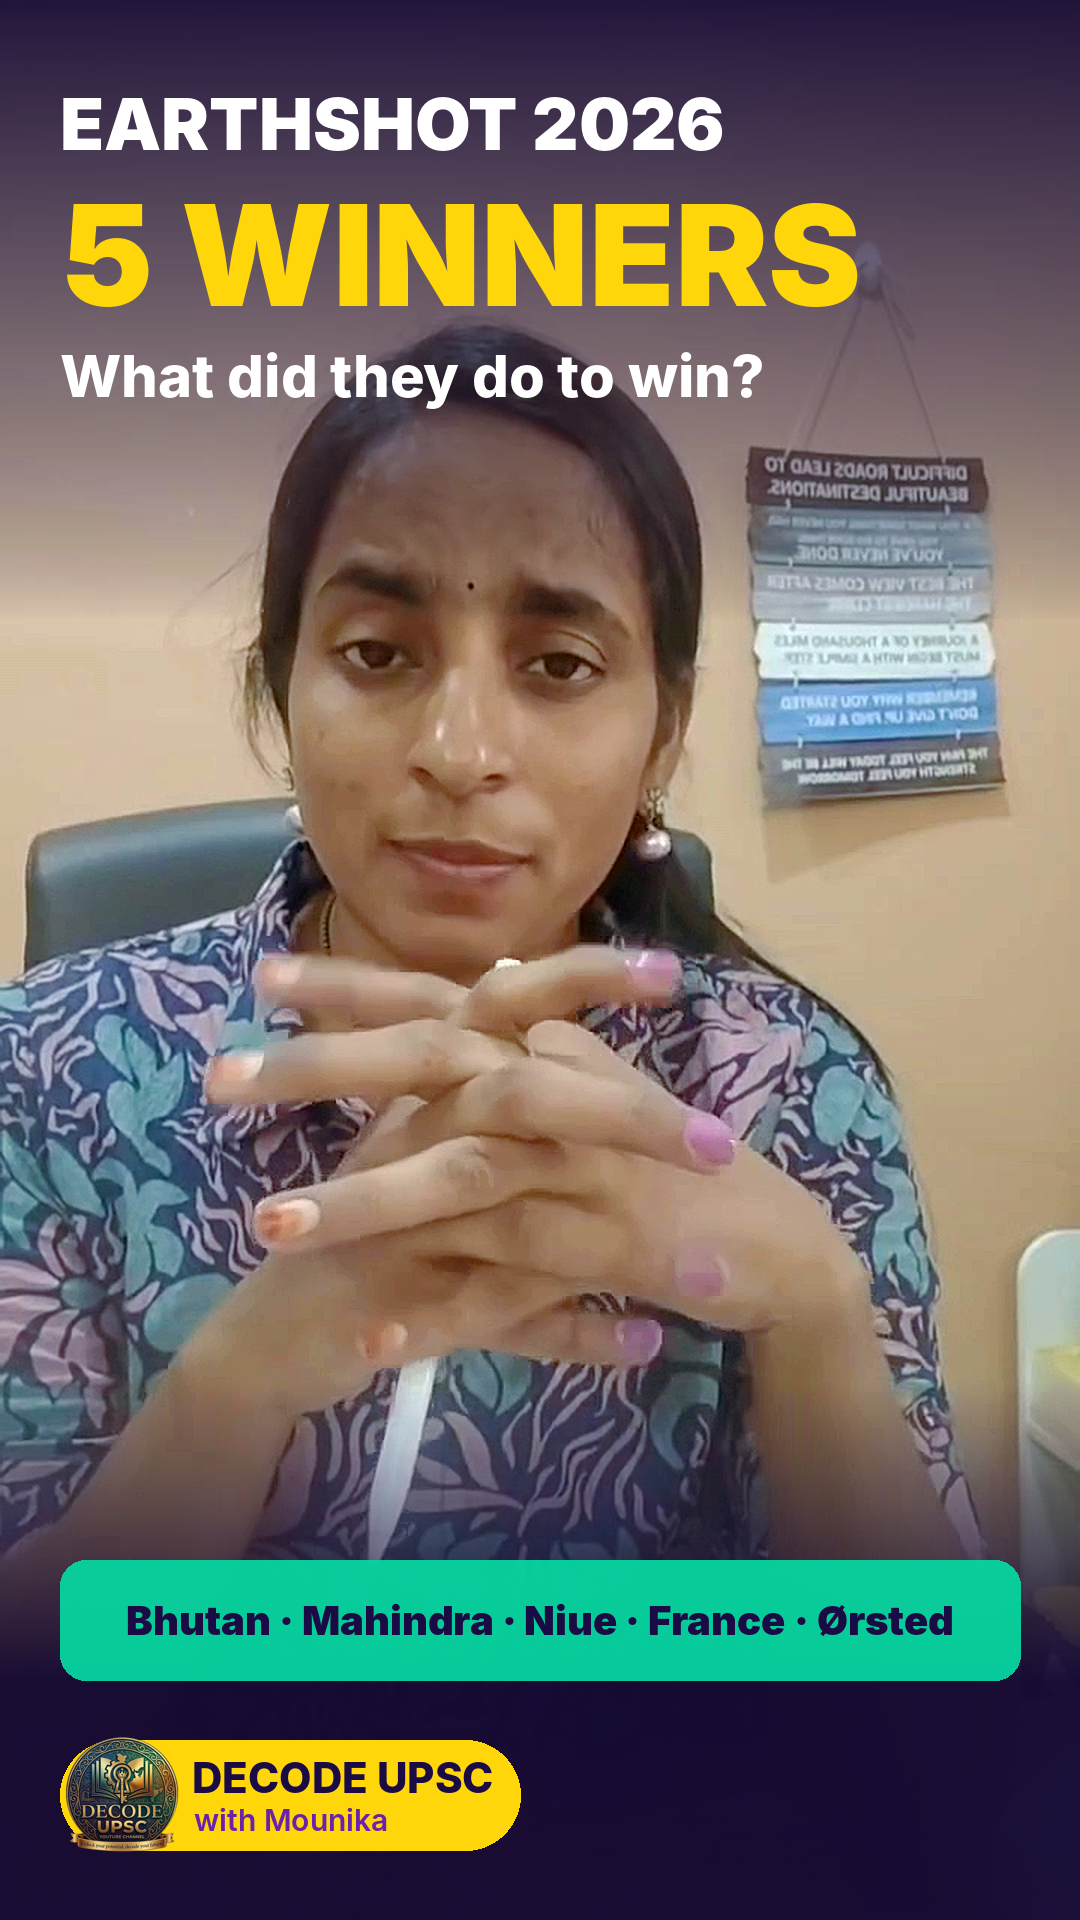
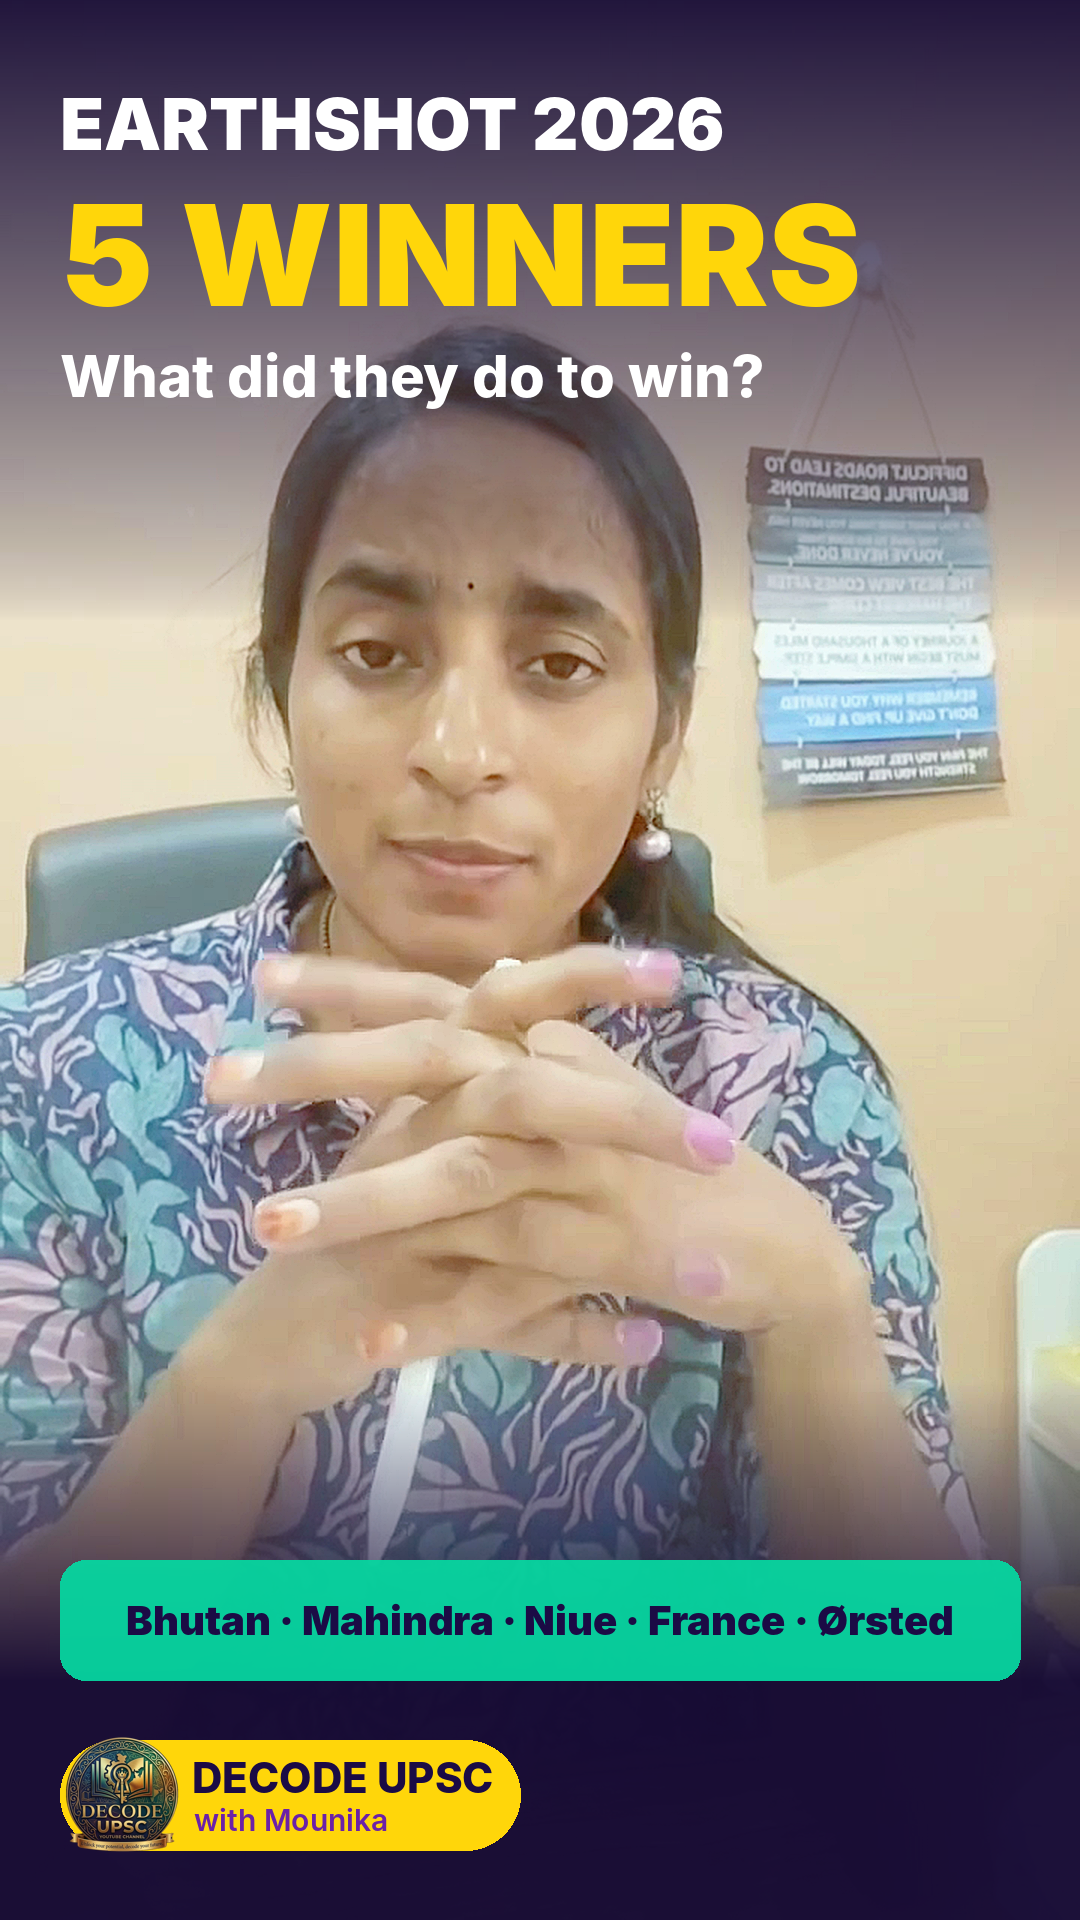
Earthshot Reel 2: brighter lighting grade; log decision 46
Claude-Session: https://claude.ai/code/session_01BwG7QZey5GmZYReGZ7aUgh

diff --git a/docs/research/mentor-upgrade-decisions.md b/docs/research/mentor-upgrade-decisions.md
@@ -102,3 +102,4 @@ Five independent reviews (`docs/research/reviews/2026-W44-exam-value/`) found th
 | 43 | Camera look for reels (2–3 Nov 2026) | Owner: "keep my face clean and neat", then "neat and polished". Every on-camera reel is composed with `compose_face.py --polish`: light denoise at the camera's own resolution, highlights held back, warm colour, a lanczos upscale and crisp sharpening. The first version also smoothed skin with a bilateral filter; on a low-resolution take (534×1280) it blurred the face (owner: "not at all clear, blurred"), so skin smoothing is dropped. **Multi-clip takes:** each join gets a 0.18 s white flash and alternating zoom punch-ins (1.0× / 1.08×), plus 20–30 ms audio fades, so cuts look intentional rather than accidental. Full-face rows can zoom out (`--face-h`) to limit upscaling of low-resolution takes. There is no reshaping of features and no AI (CLAUDE.md §1). Framing: cut before she reaches for the phone (hold the last clean frame), and keep head-to-shoulders visible in the TOP panel (`--top-y`, `--top-h`). |
 | 44 | Voice processing (15 Nov 2026) | On the W46 weekly, the owner said: "not sharp like I recorded", "make it sharp and sweet", then "blurred". The phone recordings are already clean, so dereverberation, spectral noise reduction and a de-esser only smeared the consonants. **Default from now on:** her raw recording with a light clarity EQ (option B: high-pass at 80 Hz, −1.5 dB at 350 Hz, +2 to +2.5 dB at 3 kHz, a light high shelf), fixed gain, and AAC at 320 kbps. Clean-up stages are added only when a take really has echo or hiss. |
 | 45 | Question-word structure for explainers (18 Nov 2026) | Owner: "use the What, When, How, Where concepts, it is good I feel". Explainer reels now move through spoken question signposts, "What is it? When did it begin? How does it work? Where? Who from India?", with each question on its own card. A list reel (for example, award winners) runs each item as who, what they did, and how it helps. A reel that would cover both the explainer and the list is split into two linked reels (Earthshot, W47). |
+| 46 | Brighter face (18 Nov 2026) | Owner, on Earthshot Reel 2: "my face is dull and black, give good lighting". Every on-camera take now gets a lighting grade before `--polish`: `eq=gamma=1.25:contrast=1.04:saturation=1.08`, a curve that lifts shadows and midtones (`0/0 0.25/0.32 0.5/0.6 0.75/0.84 1/0.98`) and a warm colour balance. Face brightness rose from about 140 to 181 (out of 255), with no smoothing blur. App watermarks (Teleprompter.com) are removed with `remove_watermark.py`, which fills each box from a clean plate of the wall. |

diff --git a/weeks/2026-W47/short-earthshot-winners/02-master-script.md b/weeks/2026-W47/short-earthshot-winners/02-master-script.md
@@ -42,3 +42,7 @@
 - **Face:** `--vertical --polish --face-y 90 --top-y 150 --top-h 1000`.
 - **Cover:** `Cover-Earthshot-Reel-2.png`.
 - **Captions:** `Reel-2-Earthshot-captions-EN.srt`, with the Telugu lines in English.
+- **v2 lighting (owner: "my face is dull and black, give good lighting"):**
+  - Before `--polish`, the camera gets a brightening grade: `eq=gamma=1.25:contrast=1.04:saturation=1.08`, then `curves=master='0/0 0.25/0.32 0.5/0.6 0.75/0.84 1/0.98'` (lifts shadows and midtones, holds highlights), then a warm `colorbalance`.
+  - Face brightness went from 140 to 181 (out of 255). There is no smoothing blur.
+  - The cover was redone with the same look.
